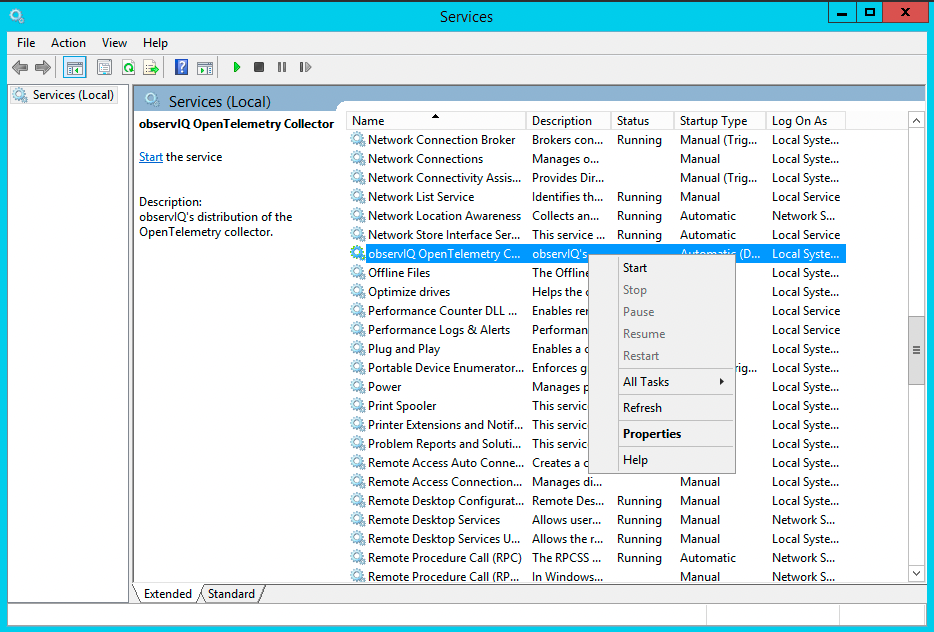
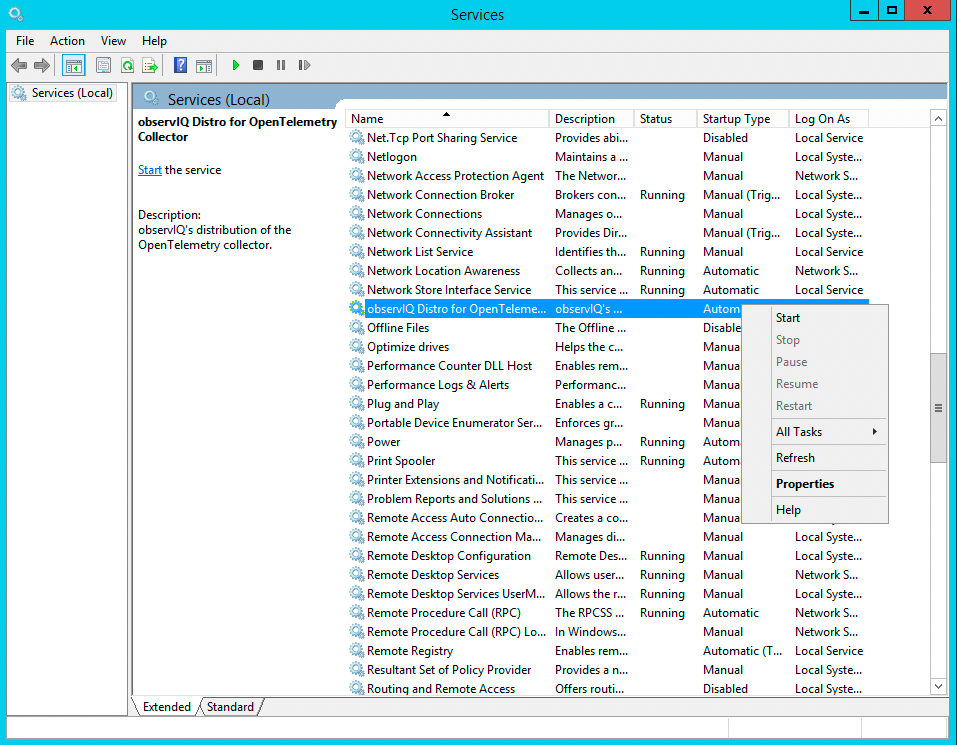
fix: Rename the official full name of the collector to "observIQ Distro for OpenTelemetry Collector" (#533)
* Rename the official full name of the collector per OTel request

* change display name to observIQ Distro for OpenTelemetry Collector

* update screenshots

* Updated Windows documentation for service names

* win readme tweaks

Changed region(s): [[0.0, 0.0, 1.0, 1.0]]

diff --git a/factories/factories.go b/factories/factories.go
@@ -19,7 +19,7 @@ import (
 	"go.uber.org/multierr"
 )
 
-// DefaultFactories returns the default factories used by the observIQ OpenTelemetry collector
+// DefaultFactories returns the default factories used by the observIQ Distro for OpenTelemetry Collector
 func DefaultFactories() (component.Factories, error) {
 	return combineFactories(defaultReceivers, defaultProcessors, defaultExporters, defaultExtensions)
 }

diff --git a/docs/installation-windows.md b/docs/installation-windows.md
@@ -27,7 +27,7 @@ To access the services dialog, press Win + R, enter `services.msc` into the Run 
 
 ![The run dialog](./screenshots/windows/launch-services.png)
 
-Locate the "observIQ OpenTelemetry Collector" service, right click the entry, and click "Restart" to restart the collector.
+Locate the "observIQ Distro for OpenTelemetry Collector" service, right click the entry, and click "Restart" to restart the collector.
 
 ![The services dialog](./screenshots/windows/stop-restart-service.png)
 
@@ -43,7 +43,7 @@ To access the services dialog, press Win + R, enter `services.msc` into the Run 
 
 ![The run dialog](./screenshots/windows/launch-services.png)
 
-Locate the "observIQ OpenTelemetry Collector" service, right click the entry, and click "Stop" to stop the collector.
+Locate the "observIQ Distro for OpenTelemetry Collector" service, right click the entry, and click "Stop" to stop the collector.
 
 ![The services dialog](./screenshots/windows/stop-restart-service.png)
 
@@ -59,7 +59,7 @@ To access the services dialog, press Win + R, enter `services.msc` into the Run 
 
 ![The run dialog](./screenshots/windows/launch-services.png)
 
-Locate the "observIQ OpenTelemetry Collector" service, right click the entry, and click "Start" to start the collector.
+Locate the "observIQ Distro for OpenTelemetry Collector" service, right click the entry, and click "Start" to start the collector.
 
 ![The services dialog](./screenshots/windows/start-service.png)
 
@@ -74,7 +74,7 @@ To uninstall the collector on Windows, navigate to the control panel, then to th
 
 ![The control panel](./screenshots/windows/control-panel-uninstall.png)
 
-Locate the `"observIQ OpenTelemetry Collector"` entry, and select uninstall. 
+Locate the `"observIQ Distro for OpenTelemetry Collector"` entry, and select uninstall. 
 
 ![The uninstall or change a program dialog](./screenshots/windows/uninstall-collector.png)
 
@@ -82,5 +82,5 @@ Follow the wizard to complete removal of the collector.
 
 Alternatively, Powershell command below may be run to uninstall the collector.
 ```pwsh
-(Get-WmiObject -Class Win32_Product -Filter "Name = 'observIQ OpenTelemetry Collector'").Uninstall()
+(Get-WmiObject -Class Win32_Product -Filter "Name = 'observIQ Distro for OpenTelemetry Collector'").Uninstall()
 ```

diff --git a/README.md b/README.md
@@ -1,7 +1,7 @@
 # Disclaimer
 While the `main` branch is stable, it is still under development and documentation may not fully reflect the current feature set. Please refer to documentation for your specific release.
 
-# observIQ OpenTelemetry Collector
+# observIQ Distro for OpenTelemetry Collector
 
 <center>
 
@@ -13,7 +13,7 @@ While the `main` branch is stable, it is still under development and documentati
 
 </center>
 
-observIQ OpenTelemetry Collector is observIQ’s distribution of the [OpenTelemetry collector](https://github.com/open-telemetry/opentelemetry-collector). It provides a simple and unified solution to collect, refine, and ship telemetry data anywhere.
+observIQ Distro for OpenTelemetry Collector is observIQ’s distribution of the [OpenTelemetry collector](https://github.com/open-telemetry/opentelemetry-collector). It provides a simple and unified solution to collect, refine, and ship telemetry data anywhere.
 
 ## Benefits
 
@@ -80,7 +80,7 @@ For more information on configuration see the [Configuration section](#configura
 
 ## Configuration
 
-The observIQ OpenTelemetry Collector uses OpenTelemetry configuration.
+The observIQ Distro for OpenTelemetry Collector uses OpenTelemetry configuration.
 
 For sample configs, see the [config](/config/) directory.
 For general configuration help, see the [OpenTelemetry docs](https://opentelemetry.io/docs/collector/configuration/).
@@ -141,7 +141,7 @@ service:
 
 # Community
 
-The observIQ OpenTelemetry Collector is an open source project. If you'd like to contribute, take a look at our [contribution guidelines](/CONTRIBUTING.md) and [developer guide](/docs/development.md). We look forward to building with you.
+The observIQ Distro for OpenTelemetry Collector is an open source project. If you'd like to contribute, take a look at our [contribution guidelines](/CONTRIBUTING.md) and [developer guide](/docs/development.md). We look forward to building with you.
 
 # How can we help?
 

diff --git a/docs/getting-started.md b/docs/getting-started.md
@@ -139,7 +139,7 @@ systemctl restart observiq-otel-collector
 
 ## Viewing the metrics in Google Cloud Operations
 
-You should now be able to view the host metrics in your Metrics explorer. Nice work! This is how simple it is to collect host metrics with the observIQ OpenTelemetry collector.
+You should now be able to view the host metrics in your Metrics explorer. Nice work! This is how simple it is to collect host metrics with the observIQ Distro for OpenTelemetry Collector.
 
 ### Metrics collected
 
